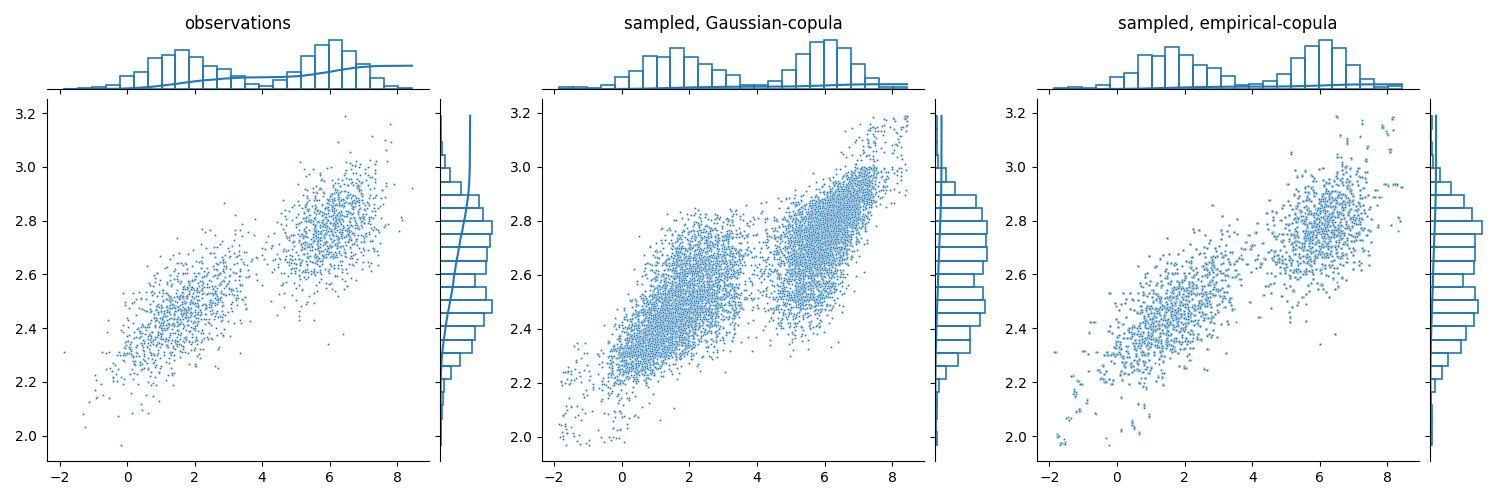
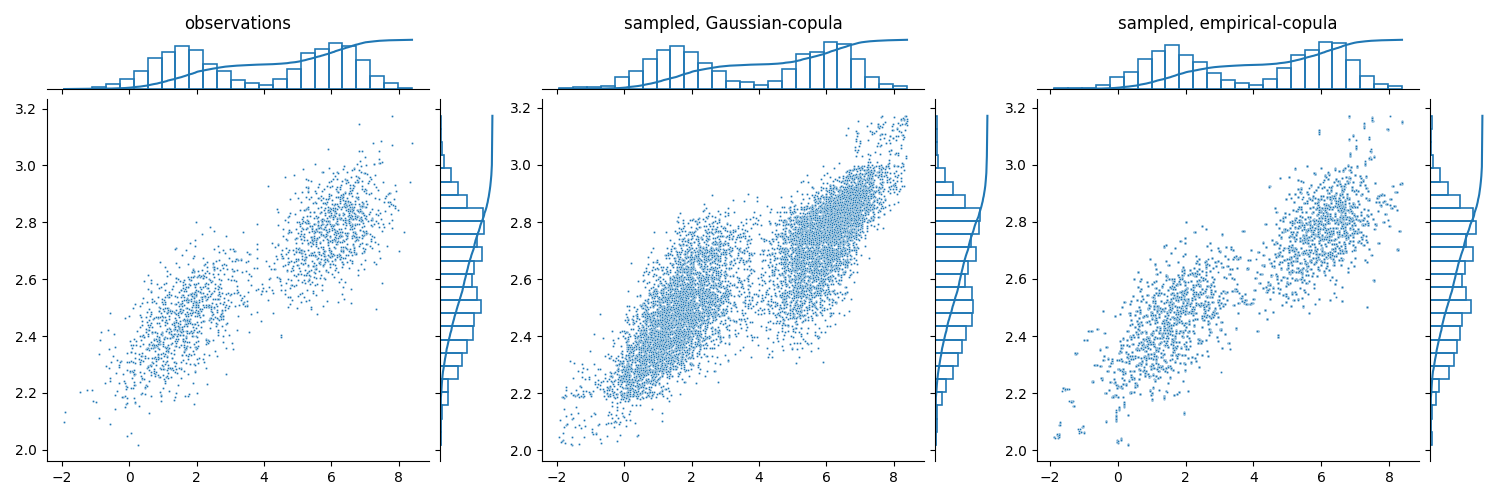
changed ECDF

diff --git a/TimeSeriesForecasting/figs/covariance_structure.py b/TimeSeriesForecasting/figs/covariance_structure.py
@@ -24,8 +24,8 @@ def joinplot(x, q_vect=np.linspace(0, 1, 100)):
     g1 = sb.jointplot(x=x1.ravel(), y=x2.ravel(), marker=".", s=10,
                  marginal_kws=dict(bins=25, fill=False))
 
-    g1.ax_marg_x.plot(pdfs[:, 0], q_vect*N/20)
-    g1.ax_marg_y.plot(q_vect*N/20, pdfs[:, 1])
+    g1.ax_marg_x.plot(pdfs[:, 0], q_vect*len(x)/10)
+    g1.ax_marg_y.plot(q_vect*len(x)/10, pdfs[:, 1])
     return g1
 
 
